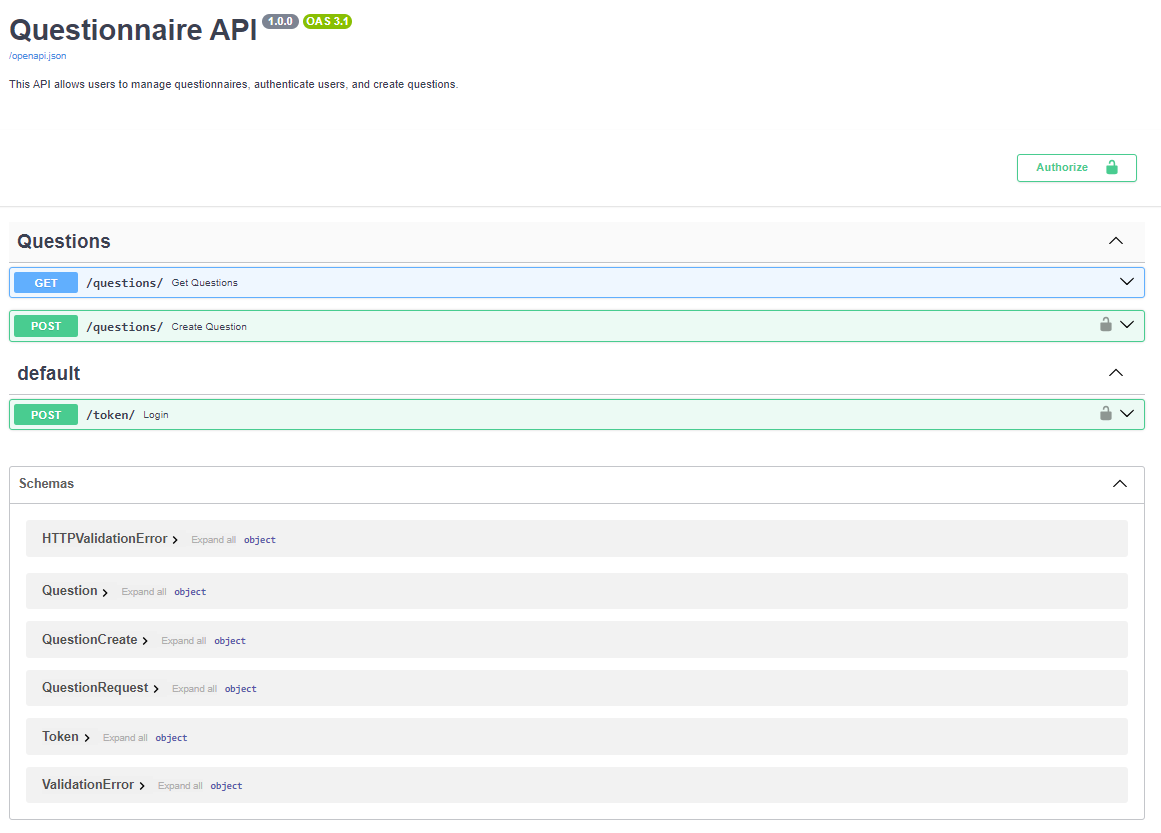
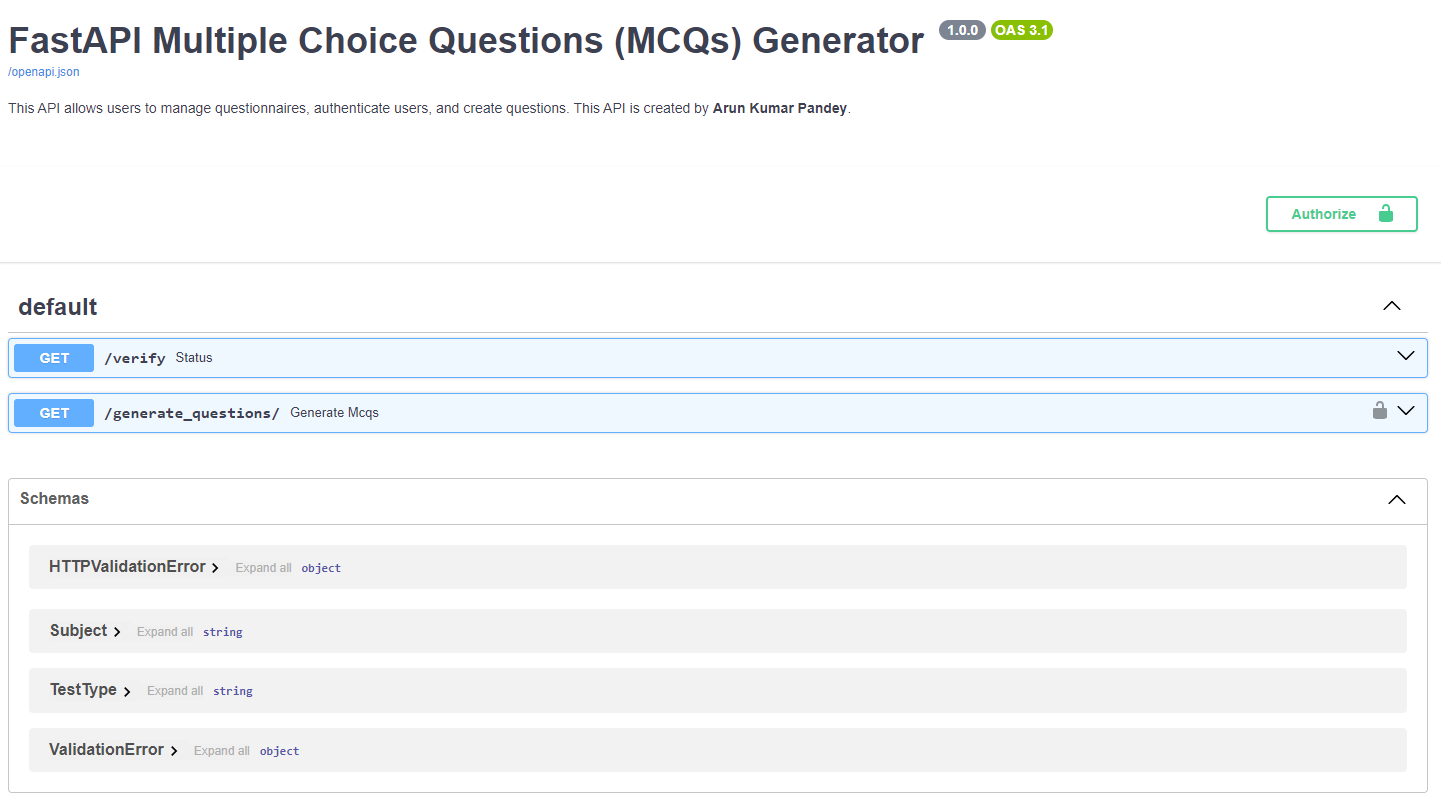
updates

diff --git a/Fastapi/api/endpoints.py b/Fastapi/api/endpoints.py
@@ -4,14 +4,22 @@ import json
 from typing import List
 from fastapi import Query
 from fastapi.security import HTTPBasic
+from fastapi.security import HTTPBasicCredentials
 from api.auth import authenticate
 from api.models import TestType, Question, Subject
 from api.utils import generate_questions
 
+
 router = APIRouter()
 
-@router.get("/verify")
+@router.get("/verify", name="Status", description="Root endpoint to verify the success of the API creation.")
 def verify_api():
+    """
+    Verifies the functionality of the API.
+
+    Returns:
+        dict: A JSON object indicating the status of the API.
+    """
     return {"status": "API is functional"}
 
 # @router.get("/generate_questions/")
@@ -41,6 +49,18 @@ def verify_api():
     
 #     return {"questions": questions}
 
+# @router.get("/generate_questions/")
+# def generate_mcqs(
+#     test_type: TestType,
+#     subject: Subject = Query(..., description="Select one or more categories"),
+#     num_questions: int = Query(..., description="Select the number of questions"),
+#     username: str = Depends(authenticate)
+# ):
+#     questions = generate_questions(test_type, [subject], num_questions)
+    
+#     return {"questions": questions}
+
+
 @router.get("/generate_questions/")
 def generate_mcqs(
     test_type: TestType,
@@ -48,6 +68,18 @@ def generate_mcqs(
     num_questions: int = Query(..., description="Select the number of questions"),
     username: str = Depends(authenticate)
 ):
+    """
+    **Generates the questions:** Generates multiple-choice questions based on specified parameters.
+
+    **Args:**
+        test_type (TestType): The type of test for which questions are generated.
+        subject (Subject): The subject/category for the questions.
+        num_questions (int): The number of questions to generate.
+        username (str, optional): The username for authentication. Defaults to None.
+
+    **Returns:**
+        dict: A JSON object containing the generated questions.
+    """
     questions = generate_questions(test_type, [subject], num_questions)
     
     return {"questions": questions}

diff --git a/Fastapi/main.py b/Fastapi/main.py
@@ -1,14 +1,32 @@
 from fastapi import FastAPI
 from api.endpoints import router as api_router
+from fastapi import FastAPI, HTTPException
+from fastapi.responses import JSONResponse
+
 
 app = FastAPI(
-    title="Questionnaire API",
-    description="This API allows users to manage questionnaires, authenticate users, and create questions.",
+    title="FastAPI Multiple Choice Questions (MCQs) Generator ",
+    description="This API allows users to manage questionnaires, authenticate users, and create questions. This API is created by <strong>Arun Kumar Pandey</strong>.",
     version="1.0.0"
 )
 
 app.include_router(api_router)
 
+# Define custom error handler middleware
+@app.exception_handler(HTTPException)
+async def http_exception_handler(request, exc):
+    return JSONResponse(
+        status_code=exc.status_code,
+        content={"message": exc.detail}
+    )
+
+@app.exception_handler(Exception)
+async def generic_exception_handler(request, exc):
+    # Handle generic exceptions
+    return JSONResponse(
+        status_code=500,
+        content={"message": "Internal server error"}
+    )
 
 if __name__ == "__main__":
     import uvicorn

diff --git a/Fastapi/api/auth.py b/Fastapi/api/auth.py
@@ -1,5 +1,6 @@
 from fastapi import HTTPException, Depends, status
 from fastapi.security import HTTPBasic, HTTPBasicCredentials
+from pydantic import BaseModel
 
 security = HTTPBasic()
 
@@ -19,3 +20,7 @@ def authenticate(credentials: HTTPBasicCredentials = Depends(security)):
             headers={"WWW-Authenticate": "Basic"},
         )
     return correct_username
+
+class Token(BaseModel):
+    access_token: str
+    token_type: str

diff --git a/Fastapi/README.md b/Fastapi/README.md
@@ -1,6 +1,6 @@
 # Project Title: FastAPI MCQ Generator with Authentication and Admin Features
 
-[Project Github repository](https://github.com/arunp77/Data-engineering-tools/tree/main/FastApi-MCQ-Generator)
+[Project Github repository](https://github.com/arunp77/Data-engineering-tools/tree/main/Fastapi)
 
 ## Overview:
 This project aims to create a FastAPI application to generate Multiple Choice Questions (MCQs) via a smartphone or web browser application. The API allows users to select test types, categories, and the number of questions to receive randomized MCQs. Additionally, the API supports basic authentication for user verification and admin features for question management.
@@ -10,35 +10,66 @@ This project aims to create a FastAPI application to generate Multiple Choice Qu
 ```bash
 project_folder/
 │
-├── api/
-│   ├── __init__.py
-│   ├── auth.py
-│   ├── endpoints.py
-│   ├── models.py
-│   └── utils.py
+├── api/                    # Contains modules related to API functionality
+│   ├── __init__.py         # Python package initialization file
+│   ├── auth.py             # Module for authentication logic
+│   ├── endpoints.py        # Module defining API endpoints
+│   ├── models.py           # Module defining Pydantic models for data validation
+│   └── utils.py            # Utility functions used across the API
 │
-├── data/
-│   └── questions_en.xlsx
+├── data/                   # Directory for storing data files
+│   └── questions_en.xlsx   # Excel file containing question data
 │
-├── tests/
-│   └── test_api.py
+├── tests/                  # Directory for API test scripts
+│   └── test_api.py         # Python script containing test cases for the API
 │
-├── main.py
-└── requirements.txt
+├── main.py                 # Main application file
+└── requirements.txt        # File listing Python dependencies for the project
 ```
 
 ## Features:
-1. **Question Generation**: Users can request MCQs based on test type and categories, with the option to specify the number of questions. Questions are returned in a random order.
-   
-2. **User Authentication**: Basic authentication is implemented to verify user credentials. Users must provide a valid username and password to access the API endpoints.
-   
-3. **Admin Features**: Admin users with the password "4dm1N" can create new questions via a dedicated endpoint. This ensures seamless management of the question database.
+
+- **Authentication:** Secure authentication mechanism using Basic Authentication, ensuring authorized access to the API endpoints.
+- **Question Generation:** Dynamically generate MCQs based on specified test types (`use`) and categories (`subject`), with options to choose the number of questions per set.
+- **Randomization:** Questions are returned in a randomized order, providing variability and preventing predictability in question sets.
+- **Error Handling:** Robust error handling mechanisms to gracefully handle invalid requests and authentication failures.
+  1. **Authentication Error Handling (`auth.py`):**
+     - In the `authenticate` function, if the provided username or password is incorrect, an `HTTPException` is raised with a status code of `HTTP_401_UNAUTHORIZED`. This indicates an authentication failure.
+     - The raised exception includes a detailed message indicating that the username or password is incorrect.
+   2. **Endpoint Error Handling (`endpoints.py`):**
+        - Error handling is implemented within each endpoint function to handle potential errors gracefully.
+        - For example, in the `generate_mcqs` endpoint, if any error occurs during the generation of MCQs, an appropriate exception can be raised to notify the client about the issue.
+   3. **Global Error Handling (`main.py`):** FastAPI provides built-in support for global error handling through middleware. Custom middleware or exception handlers can be added to handle errors that occur at the application level, such as uncaught exceptions or validation errors.
+        - Two exception handler middleware functions are defined: `http_exception_handler` and `generic_exception_handler`.
+        - `http_exception_handler` handles `HTTPExceptions` raised by FastAPI, which are typically used to return specific HTTP status codes and error messages.
+        - `generic_exception_handler` catches any other exceptions that may occur and returns a generic internal server error message with a status code of 500.
+        - Both middleware functions receive the request and the exception object as parameters and return a JSONResponse with the appropriate status code and error message.
+- **User Authentication:** Endpoint to verify the functionality and availability of the API. Basic authentication is implemented to verify user credentials. Users must provide a valid username and password to access the API endpoints.
+- **Admin Features**: Admin users with the password "4dm1N" can create new questions via a dedicated endpoint. This ensures seamless management of the question database.
+- **API Documentation:** Interactive documentation powered by **Swagger UI**, providing detailed information on available endpoints and request parameters.
 
 ## Endpoints:
-- `GET /questions/`: This endpoint allows users to retrieve a list of questions based on the provided criteria.
-- `POST /token/`: This endpoint allows users to authenticate and obtain a JWT token.
-- `POST /questions/`: This endpoint allows an admin user to create a new question.
+The `endpoints.py` module defines various endpoints for the API, allowing users to interact with the application to perform different tasks related to managing questionnaires and generating questions.
 
+1. `/verify` Endpoint:
+   - Description: This endpoint verifies that the API is functional. It serves as a health check to ensure that the API is up and running.
+   - Method: GET
+   - Function: `verify_api()`
+   - Response: Returns a JSON object with a status message indicating that the API is functional.
+
+2. `/generate_questions/` Endpoint:
+   - Description: This endpoint generates multiple-choice questions based on specified parameters such as test type, subject, and the number of questions.
+   - Method: GET
+   - Function: `generate_mcqs()`
+   - Parameters:
+     - `test_type`: Specifies the type of test (e.g., Positioning test, Validation test, Total Boot Camp).
+     - `subject`: Specifies the subject/category for the questions (e.g., Databases, Distributed systems, Data Streaming).
+     - `num_questions`: Specifies the number of questions to generate.
+   - Authentication: Basic authentication is required using username and password.
+   - Error Handling: Implements robust error handling to gracefully handle invalid requests and authentication failures.
+   - Response: Returns a JSON object containing the generated multiple-choice questions.
+
+These endpoints provide users with the ability to verify the functionality of the API and generate questions dynamically based on their requirements, facilitating the management of questionnaires within the application.
 
 ![MCQ Generator](images/fastapi.png)
 
@@ -64,6 +95,9 @@ project_folder/
 
 ## Testing:
 - Detailed instructions for testing the API can be found in the provided test_commands.txt file.
+
+### Deployment:
+The Questionnaire API can be deployed on any compatible server environment using tools like Uvicorn or ASGI servers. It's recommended to deploy the API in a secure environment with proper authentication mechanisms to control access.
 
 ## Architecture Choices:
 - FastAPI chosen for its simplicity, performance, and automatic interactive documentation.
